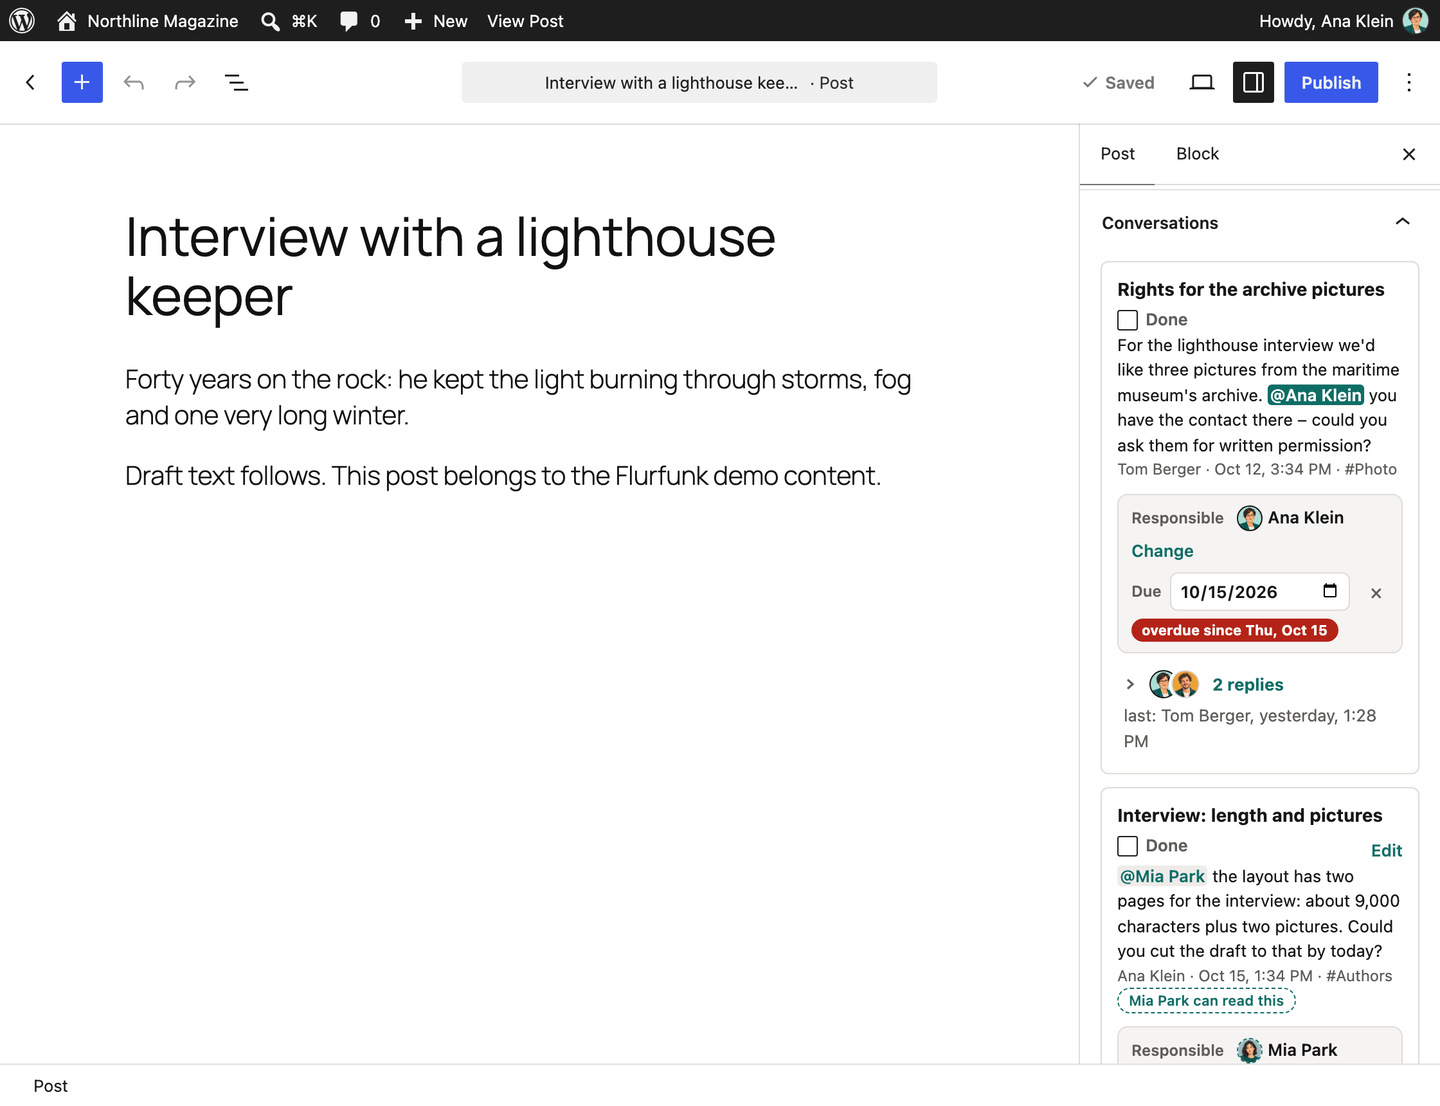
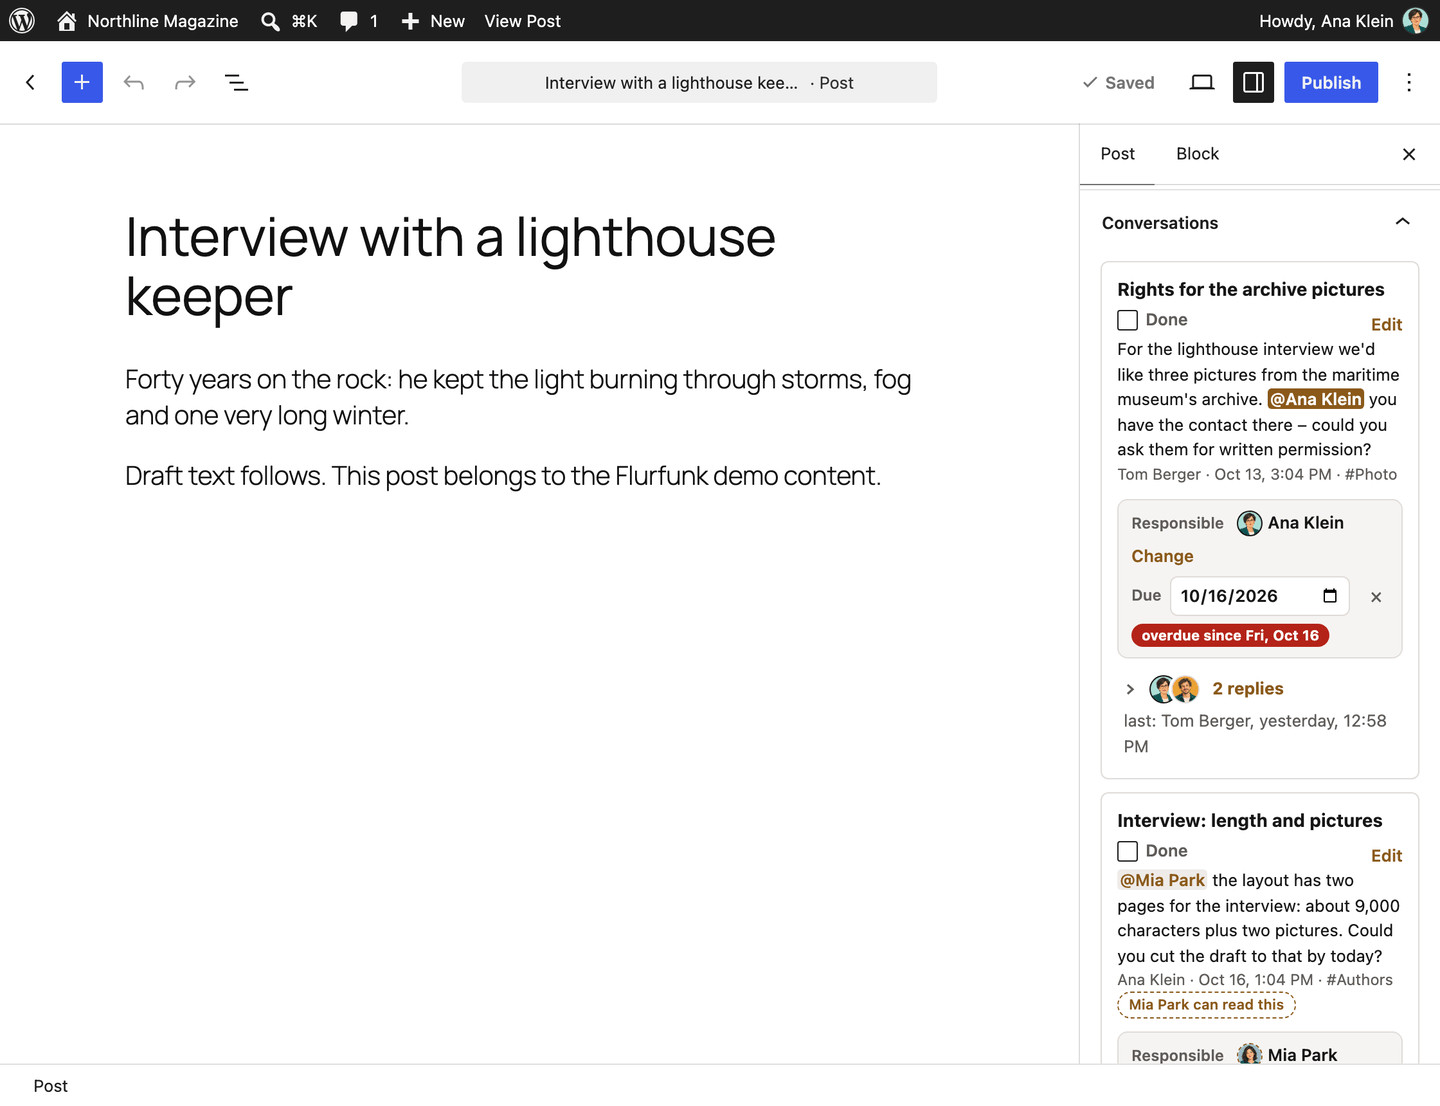
Docs: screenshots for 0.2.0 with the warm default colours; permissions and comment card; demo seeds reader comments and a /comment card

Changed region(s): [[0.7812, 0.2767, 0.9688, 0.6763], [0.7812, 0.7071, 0.9688, 0.9837], [0.2812, 0.0, 0.4062, 0.0307]]

diff --git a/tests/demo/seed.php b/tests/demo/seed.php
@@ -63,7 +63,7 @@ function flurfunk_demo_gate(): void {
 	if ( 'POST' !== ( $_SERVER['REQUEST_METHOD'] ?? '' ) || ! wp_verify_nonce( (string) ( $_POST['_wpnonce'] ?? '' ), 'flurfunk_demo' ) ) {
 		header( 'Content-Type: text/html; charset=utf-8' );
 		echo '<!doctype html><meta charset="utf-8"><title>Flurfunk demo content</title><body style="font:16px/1.5 system-ui;max-width:36em;margin:3em auto">'
-			. '<h1>Flurfunk demo content</h1><p>Creates the fictional Northline Magazine team: five people and an assistant, channels, four posts and about a dozen conversations. Only for test and demo sites.</p>'
+			. '<h1>Flurfunk demo content</h1><p>Creates the fictional Northline Magazine team: five people and an assistant, channels, four posts, reader comments and about a dozen conversations. Only for test and demo sites.</p>'
 			. '<form method="post">' . wp_nonce_field( 'flurfunk_demo', '_wpnonce', true, false )
 			. '<p><label><input type="checkbox" name="reset-passwords" value="1"> New passwords for existing demo accounts</label></p>'
 			. '<p><button type="submit" id="flurfunk-demo-run">Create demo content</button></p></form>';
@@ -247,6 +247,50 @@ $flurfunk_demo_reset = in_array( 'reset-passwords', (array) ( $args ?? array() )
 		}
 	}
 
+	/* Reader comments on the published post, one still waiting for approval -- */
+
+	$c = array();
+	foreach (
+		array(
+			'clara' => array( 'Clara Jansen', 'We did walk number four last Sunday. The fog lifted just as we reached the top – thank you for the tip!', 1, 110, '' ),
+			'ben'   => array( 'Ben Achterberg', 'Is the old tow path fine with a pram?', 1, 70, '' ),
+			'mia'   => array( 'mia', 'Yes, the first two kilometres from the lock are paved, after that it gets bumpy.', 1, 66, 'ben' ),
+			'oskar' => array( 'Oskar Lind', 'Careful with walk seven: the path between the mill and the bridge has been closed since the September storm. Maybe add a note?', 0, 5, '' ),
+		) as $key => [ $who, $text, $approved, $hours, $parent ]
+	) {
+		$found = get_comments(
+			array(
+				'post_id'    => $p['walks'],
+				'meta_key'   => '_flurfunk_demo', // phpcs:ignore WordPress.DB.SlowDBQuery
+				'meta_value' => $key, // phpcs:ignore WordPress.DB.SlowDBQuery
+				'status'     => 'all',
+				'fields'     => 'ids',
+				'number'     => 1,
+			)
+		);
+		if ( $found ) {
+			$c[ $key ] = (int) $found[0];
+			continue;
+		}
+		$user = isset( $u[ $who ] ) ? get_userdata( $u[ $who ] ) : null;
+		$when = wp_date( 'Y-m-d H:i:s', (int) ( $now - $hours * HOUR_IN_SECONDS ) );
+		$id   = wp_insert_comment(
+			array(
+				'comment_post_ID'      => $p['walks'],
+				'comment_author'       => $user ? $user->display_name : $who,
+				'comment_author_email' => $user ? $user->user_email : strtolower( strtok( $who, ' ' ) ) . '@example.com',
+				'comment_content'      => $text,
+				'comment_approved'     => $approved,
+				'comment_parent'       => $parent ? (int) ( $c[ $parent ] ?? 0 ) : 0,
+				'user_id'              => $user ? $user->ID : 0,
+				'comment_date'         => $when,
+				'comment_date_gmt'     => get_gmt_from_date( $when ),
+				'comment_meta'         => array( '_flurfunk_demo' => $key ),
+			)
+		);
+		$c[ $key ] = (int) $id;
+	}
+
 	/* Conversations -------------------------------------------------------- */
 
 	$top   = static fn (): array => array(
@@ -428,6 +472,14 @@ $flurfunk_demo_reset = in_array( 'reset-passwords', (array) ( $args ?? array() )
 			'body'    => "Topics for the November newsletter:\n1. Autumn issue: cover story\n2. A teaser for the lighthouse interview\n3. Ten walks for a foggy weekend (our most-read story in October)\n\n" . $m( 'ana' ) . ' could you approve them by ' . $nice( 5 ) . '?',
 			'task'    => array( 'due' => 5, 'assignees' => array( 'ana' ) ),
 		),
+		'reader-tip'        => array(
+			'channel' => 'editorial',
+			'by'      => 'jonas',
+			'at'      => 2.5,
+			'title'   => 'Reader tip about walk seven',
+			'body'    => 'A reader says walk seven has been closed since the storm. ' . $m( 'ana' ) . ' shall we add a note to the article before we approve the comment?',
+			'comments' => array( 'oskar' ),
+		),
 		'cover-draft'       => array(
 			'channel' => 'editorial',
 			'by'      => 'ana',
@@ -468,6 +520,11 @@ $flurfunk_demo_reset = in_array( 'reset-passwords', (array) ( $args ?? array() )
 		}
 		if ( ! empty( $t['cards'] ) ) {
 			$args['attachments'] = array_map( static fn ( $k ) => array( 'provider' => 'flurfunk/post', 'ref' => array( 'id' => $p[ $k ] ) ), $t['cards'] );
+		}
+		foreach ( $t['comments'] ?? array() as $k ) {
+			if ( ! empty( $c[ $k ] ) ) {
+				$args['attachments'][] = array( 'provider' => 'flurfunk/comment', 'ref' => array( 'id' => $c[ $k ] ) );
+			}
 		}
 		$id = $at(
 			$t['by'],
@@ -535,9 +592,9 @@ $flurfunk_demo_reset = in_array( 'reset-passwords', (array) ( $args ?? array() )
 			$wpdb->update( table( 'threads' ), array( 'last_activity' => max( (string) $row->created, $last ) ), array( 'id' => $id ) );
 		}
 
-		// Ana was last here three hours ago; three conversations still wait for her.
+		// Ana was last here three hours ago; four conversations still wait for her.
 		$seen   = gmdate( 'Y-m-d H:i:s', $now - 3 * HOUR_IN_SECONDS );
-		$unread = array_filter( array( $ids['newsletter-topics'] ?? 0, $ids['interview-length'] ?? 0, $ids['team-lunch'] ?? 0 ) );
+		$unread = array_filter( array( $ids['newsletter-topics'] ?? 0, $ids['interview-length'] ?? 0, $ids['team-lunch'] ?? 0, $ids['reader-tip'] ?? 0 ) );
 		foreach ( $ids as $key => $id ) {
 			if ( in_array( $id, $unread, true ) ) {
 				continue;

diff --git a/docs/developers.md b/docs/developers.md
@@ -1294,10 +1294,12 @@ anything else (renames, data rewrites) goes into `upgrade()` as a step.
 
 `tests/demo/seed.php` fills a test site with a small fictional editorial team, "Northline
 Magazine": five people (editors as team, two authors as guests) and an assistant, the channels
-#general, #editorial, #photo, #tech and #authors, four posts, and about a dozen conversations
-over the last days, with mentions, tasks in every state and with due dates (one overdue, one due
-today), an image gallery, a transcript file, `/post` cards and notifications for Ana Klein, the
-editor-in-chief. The screenshots in these docs were taken with it.
+#general, #editorial, #photo, #tech and #authors, four posts with a few reader comments (one
+waiting for approval), and about a dozen conversations over the last days, with mentions, tasks in
+every state and with due dates (one overdue, one due today), an image gallery, a transcript file,
+`/post` and `/comment` cards and notifications for Ana Klein, the editor-in-chief. Roles decide
+who is team and who is guest (editors and authors with Flurfunk's default permissions); the
+colours stay at Flurfunk's defaults. The screenshots in these docs were taken with it.
 
 ```bash
 wp eval-file wp-content/plugins/flurfunk/tests/demo/seed.php        # add reset-passwords for new ones
@@ -1307,7 +1309,7 @@ cp wp-content/plugins/flurfunk/tests/demo/demo-avatars.php wp-content/mu-plugins
 Without WP-CLI, open the file's address in the browser while logged in as an administrator
 (inside the plugin, or copied into the WordPress root) and confirm; or define
 `FLURFUNK_DEMO_SECRET` (16+ characters) in `wp-config.php` and add `?secret=…` once. Running it
-again adds nothing twice (people by login, posts by a meta key, threads by `ref_key`
+again adds nothing twice (people by login, posts and comments by a meta key, threads by `ref_key`
 `northline-demo:…`). New accounts get random passwords, printed once. Times are relative to the
 moment it runs. Only for test and demo sites: it sets the Flurfunk name (if none is set), changes the five
 channels' access and creates users with `@northline.example` addresses. The folder is not part of

diff --git a/docs/installation.md b/docs/installation.md
@@ -139,6 +139,8 @@ has it or from their own role, so you cannot lock yourself out. Modules and othe
 capabilities of their own (for example "Send newsletters"); they appear in the same table, with the
 roles they recommend already ticked when they were switched on.
 
+![The Permissions matrix and the Modules section under Settings → Flurfunk](assets/screenshot-permissions.png)
+
 **Role editor plugins.** Because these are normal WordPress capabilities, plugins such as
 [Members](https://wordpress.org/plugins/members/) or
 [User Role Editor](https://wordpress.org/plugins/user-role-editor/) show and change them too, also

diff --git a/docs/user-guide.md b/docs/user-guide.md
@@ -149,6 +149,8 @@ the comment"), and the people following the thread are notified as for a reply. 
 buttons you are allowed to use; if someone else was faster, the card says so and shows the
 current state.
 
+![A comment card: the comment waits for approval, with buttons to approve it, mark it as spam or move it to the trash](assets/screenshot-comment-card.png)
+
 ### Optional modules
 
 Your administrator can switch on more under *Settings → Flurfunk → Modules*:
